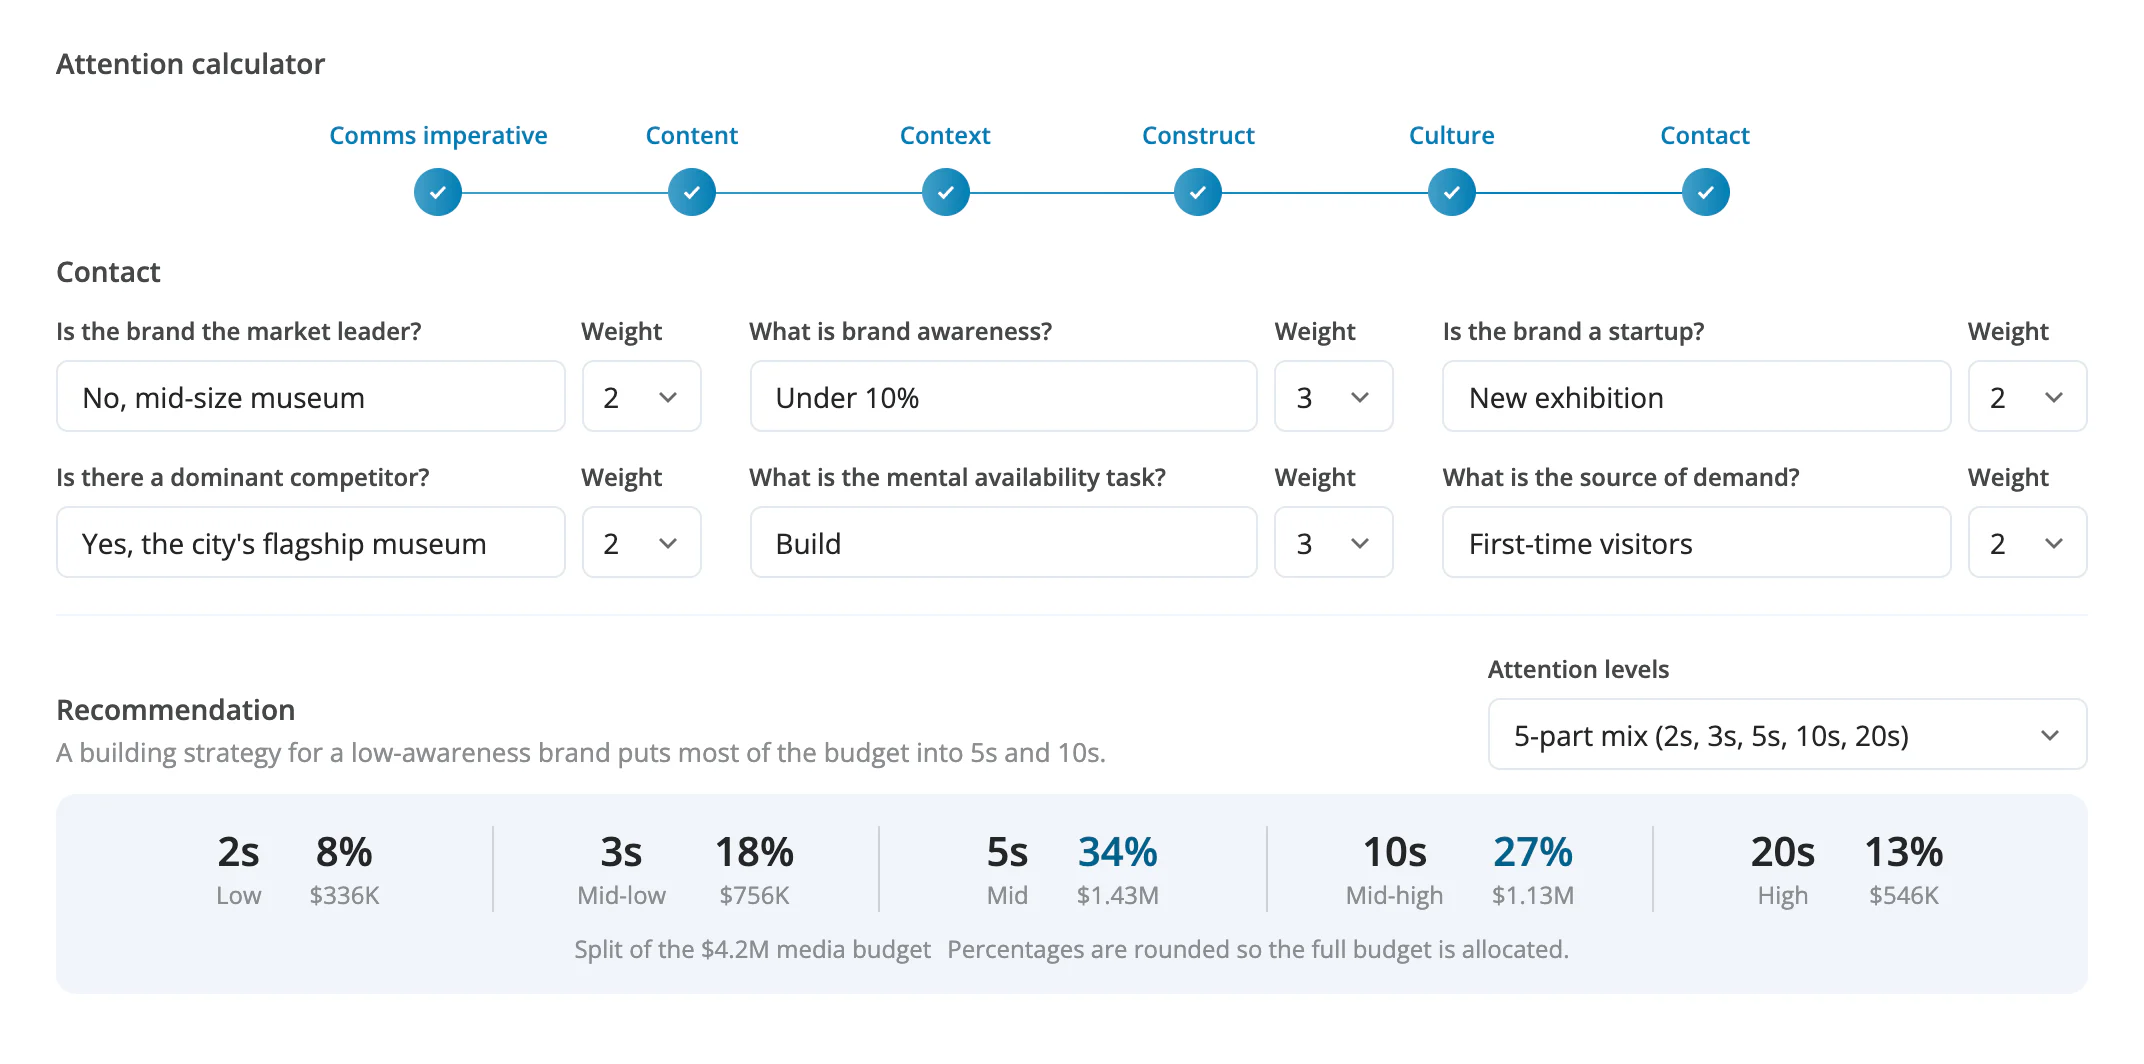
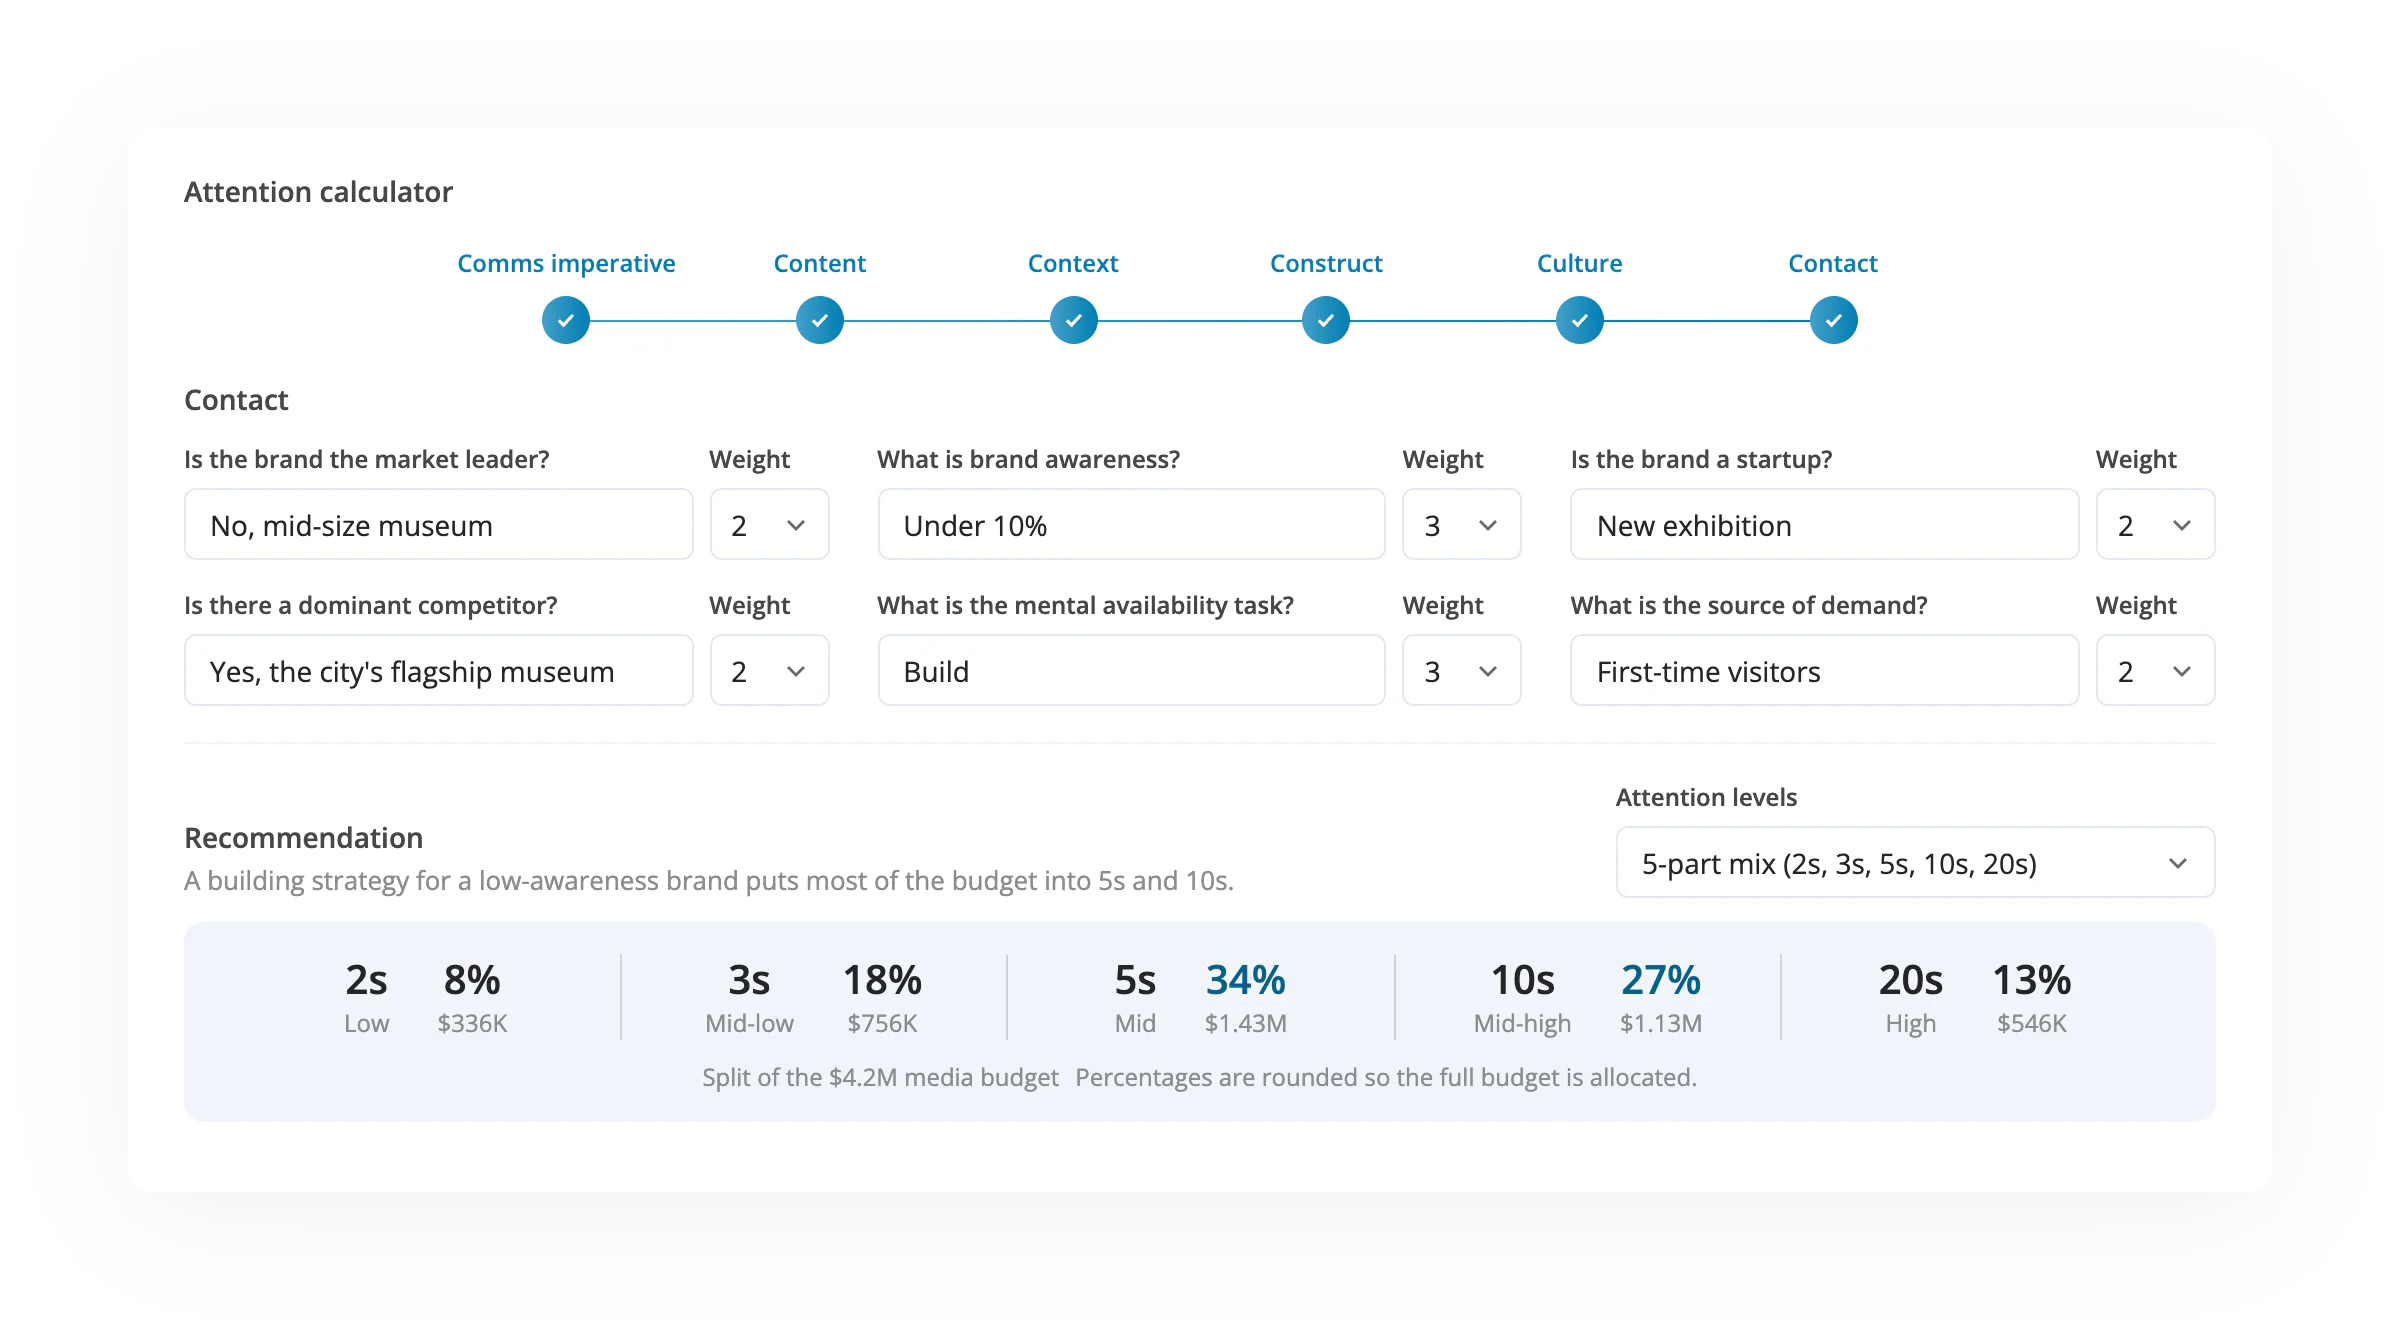
Give the module screens a drop shadow and keep it in the captures
Cards use 0 10px 60px -5px rgba(59,62,63,.08) in place of the old
shadow and outline. capture.mjs now keeps the shadow and adds 64px of
transparent room around the card (2400×1320 at 2×), and the figure and
zoom images overflow by that 64px so the card stays the same size.

diff --git a/design/case2-screens/new-client-opportunity.dc.html b/design/case2-screens/new-client-opportunity.dc.html
@@ -9,7 +9,7 @@
 <x-dc>
 <helmet data-dc-atomics=""><link rel="preconnect" href="https://fonts.googleapis.com"><link href="https://fonts.googleapis.com/css2?family=Open+Sans:wght@400;600;700&amp;display=swap" rel="stylesheet"><style>body{margin:0;background:#f0eee9;font-family:"Open Sans",system-ui,sans-serif;color:#464849}a{color:#00618B}a:hover{color:#004563}*{box-sizing:border-box}</style><script src="./image-slot.js"></script></helmet>
 <div id="shot-6" data-screen-label="06 Opportunity mapping" style="width:1120px;height:580px;padding:24px;background:transparent;font-family:'Open Sans',sans-serif">
-<div style="position:relative;width:100%;height:100%;background:#fff;border-radius:10px;box-shadow:0 10px 60px -5px rgba(36,37,38,.14),0 0 0 1px #F1F5FA;overflow:hidden;padding:22px 28px;display:flex;flex-direction:column;gap:16px">
+<div style="position:relative;width:100%;height:100%;background:#fff;border-radius:10px;box-shadow:0 10px 60px -5px rgba(59,62,63,.08);overflow:hidden;padding:22px 28px;display:flex;flex-direction:column;gap:16px">
 <span style="font-size:14px;font-weight:600;color:#242526">Opportunity mapping</span>
 <div style="flex:1;min-height:0;display:grid;grid-template-columns:repeat(6,minmax(0,1fr));grid-template-rows:repeat(3,minmax(0,1fr));gap:10px">
 <div style="grid-area:1 / 1 / 2 / 3;background:#00618B;color:#fff;border-radius:6px;padding:12px 14px;display:flex;flex-direction:column;gap:4px;overflow:hidden"><span style="font-size:10px;font-weight:700;letter-spacing:.08em;text-transform:uppercase;color:#CAE4EF">Brand</span><span style="font-size:14px;font-weight:600;line-height:19px">Gold frame, face to face</span><div style="font-size:12px;line-height:17px;text-wrap:pretty;display:flex;flex-direction:column;gap:2px"><span>The gold frame mark and "Face to face with Raphael" line are our strongest cues. Awareness is 6% today, so every touchpoint should show both.</span></div></div>

diff --git a/design/case2-screens/new-client-audience.dc.html b/design/case2-screens/new-client-audience.dc.html
@@ -9,7 +9,7 @@
 <x-dc>
 <helmet data-dc-atomics=""><link rel="preconnect" href="https://fonts.googleapis.com"><link href="https://fonts.googleapis.com/css2?family=Open+Sans:wght@400;600;700&amp;display=swap" rel="stylesheet"><style>body{margin:0;background:#f0eee9;font-family:"Open Sans",system-ui,sans-serif;color:#464849}a{color:#00618B}a:hover{color:#004563}*{box-sizing:border-box}</style><script src="./image-slot.js"></script></helmet>
 <div id="shot-2" data-screen-label="02 Audience viz" style="width:1120px;height:580px;padding:24px;background:transparent;font-family:'Open Sans',sans-serif">
-<div style="position:relative;width:100%;height:100%;background:#fff;border-radius:10px;box-shadow:0 10px 60px -5px rgba(36,37,38,.14),0 0 0 1px #F1F5FA;overflow:hidden">
+<div style="position:relative;width:100%;height:100%;background:#fff;border-radius:10px;box-shadow:0 10px 60px -5px rgba(59,62,63,.08);overflow:hidden">
 <div style="position:absolute;top:0;left:0;bottom:0;width:700px;padding:24px 28px">
 <div style="display:flex;justify-content:space-between;align-items:baseline;gap:16px"><span style="font-size:14px;font-weight:600;white-space:nowrap">Core Audience</span><span style="display:flex;align-items:center;gap:8px"><span style="font-size:13px;color:#8B8D90;white-space:nowrap"><br></span></span></div>
 <div style="position:relative;margin-top:22px;height:370px">

diff --git a/design/case2-screens/return-client-channel.dc.html b/design/case2-screens/return-client-channel.dc.html
@@ -9,7 +9,7 @@
 <x-dc>
 <helmet data-dc-atomics=""><link rel="preconnect" href="https://fonts.googleapis.com"><link href="https://fonts.googleapis.com/css2?family=Open+Sans:wght@400;600;700&amp;display=swap" rel="stylesheet"><style>body{margin:0;background:#f0eee9;font-family:"Open Sans",system-ui,sans-serif;color:#464849}a{color:#00618B}a:hover{color:#004563}*{box-sizing:border-box}</style><script src="./image-slot.js"></script></helmet>
 <div id="shot-4" data-screen-label="Revisit 04 Channel plan" style="width:1120px;height:580px;padding:24px;background:transparent;font-family:'Open Sans',sans-serif">
-<div style="position:relative;width:100%;height:100%;background:#fff;border-radius:10px;box-shadow:0 10px 60px -5px rgba(36,37,38,.14),0 0 0 1px #F1F5FA;overflow:hidden">
+<div style="position:relative;width:100%;height:100%;background:#fff;border-radius:10px;box-shadow:0 10px 60px -5px rgba(59,62,63,.08);overflow:hidden">
 <div style="position:absolute;top:0;left:0;bottom:0;width:700px;padding:24px 0 24px 28px;display:flex;gap:4px">
 <div style="width:212px;flex:none;display:flex;flex-direction:column;gap:6px;border-right:1px solid #F1F5FA;padding-right:16px">
 <div style="display:flex;flex-direction:column;align-items:flex-start;gap:6px;padding-bottom:8px"><span style="font-size:14px;font-weight:600">Channel plan</span></div>

diff --git a/design/case2-screens/new-client-channel.dc.html b/design/case2-screens/new-client-channel.dc.html
@@ -9,7 +9,7 @@
 <x-dc>
 <helmet data-dc-atomics=""><link rel="preconnect" href="https://fonts.googleapis.com"><link href="https://fonts.googleapis.com/css2?family=Open+Sans:wght@400;600;700&amp;display=swap" rel="stylesheet"><style>body{margin:0;background:#f0eee9;font-family:"Open Sans",system-ui,sans-serif;color:#464849}a{color:#00618B}a:hover{color:#004563}*{box-sizing:border-box}</style><script src="./image-slot.js"></script></helmet>
 <div id="shot-4" data-screen-label="04 Channel plan" style="width:1120px;height:580px;padding:24px;background:transparent;font-family:'Open Sans',sans-serif">
-<div style="position:relative;width:100%;height:100%;background:#fff;border-radius:10px;box-shadow:0 10px 60px -5px rgba(36,37,38,.14),0 0 0 1px #F1F5FA;overflow:hidden">
+<div style="position:relative;width:100%;height:100%;background:#fff;border-radius:10px;box-shadow:0 10px 60px -5px rgba(59,62,63,.08);overflow:hidden">
 <div style="position:absolute;top:0;left:0;bottom:0;width:700px;padding:24px 0 24px 28px;display:flex;gap:4px">
 <div style="width:212px;flex:none;display:flex;flex-direction:column;gap:6px;border-right:1px solid #F1F5FA;padding-right:16px">
 <div style="display:flex;flex-direction:column;align-items:flex-start;gap:6px;padding-bottom:8px"><span style="font-size:14px;font-weight:600">Channel plan</span></div>

diff --git a/design/case2-screens/return-client-attention.dc.html b/design/case2-screens/return-client-attention.dc.html
@@ -9,7 +9,7 @@
 <x-dc>
 <helmet data-dc-atomics=""><link rel="preconnect" href="https://fonts.googleapis.com"><link href="https://fonts.googleapis.com/css2?family=Open+Sans:wght@400;600;700&amp;display=swap" rel="stylesheet"><style>body{margin:0;background:#f0eee9;font-family:"Open Sans",system-ui,sans-serif;color:#464849}a{color:#00618B}a:hover{color:#004563}*{box-sizing:border-box}</style><script src="./image-slot.js"></script></helmet>
 <div id="shot-3" data-screen-label="Revisit 03 Attention plan" style="width:1120px;height:580px;padding:24px;background:transparent;font-family:'Open Sans',sans-serif">
-<div style="position:relative;width:100%;height:100%;background:#fff;border-radius:10px;box-shadow:0 10px 60px -5px rgba(36,37,38,.14),0 0 0 1px #F1F5FA;overflow:hidden">
+<div style="position:relative;width:100%;height:100%;background:#fff;border-radius:10px;box-shadow:0 10px 60px -5px rgba(59,62,63,.08);overflow:hidden">
 <div style="padding:22px 28px;display:flex;flex-direction:column;gap:18px">
 <span style="font-size:14px;font-weight:600">Attention calculator</span><div style="display:grid;grid-template-columns:repeat(6,1fr);width:760px;align-self:center">
 <sc-for list="{{ steps }}" as="s" hint-placeholder-count="6">

diff --git a/design/case2-screens/new-client-attention.dc.html b/design/case2-screens/new-client-attention.dc.html
@@ -9,7 +9,7 @@
 <x-dc>
 <helmet data-dc-atomics=""><link rel="preconnect" href="https://fonts.googleapis.com"><link href="https://fonts.googleapis.com/css2?family=Open+Sans:wght@400;600;700&amp;display=swap" rel="stylesheet"><style>body{margin:0;background:#f0eee9;font-family:"Open Sans",system-ui,sans-serif;color:#464849}a{color:#00618B}a:hover{color:#004563}*{box-sizing:border-box}</style><script src="./image-slot.js"></script></helmet>
 <div id="shot-3" data-screen-label="03 Attention plan" style="width:1120px;height:580px;padding:24px;background:transparent;font-family:'Open Sans',sans-serif">
-<div style="position:relative;width:100%;height:100%;background:#fff;border-radius:10px;box-shadow:0 10px 60px -5px rgba(36,37,38,.14),0 0 0 1px #F1F5FA;overflow:hidden">
+<div style="position:relative;width:100%;height:100%;background:#fff;border-radius:10px;box-shadow:0 10px 60px -5px rgba(59,62,63,.08);overflow:hidden">
 <div style="padding:22px 28px;display:flex;flex-direction:column;gap:18px">
 <span style="font-size:14px;font-weight:600">Attention calculator</span><div style="display:grid;grid-template-columns:repeat(6,1fr);width:760px;align-self:center">
 <sc-for list="{{ steps }}" as="s" hint-placeholder-count="6">

diff --git a/design/case2-screens/new-client-ideation.dc.html b/design/case2-screens/new-client-ideation.dc.html
@@ -9,7 +9,7 @@
 <x-dc>
 <helmet data-dc-atomics=""><link rel="preconnect" href="https://fonts.googleapis.com"><link href="https://fonts.googleapis.com/css2?family=Open+Sans:wght@400;600;700&amp;display=swap" rel="stylesheet"><style>body{margin:0;background:#f0eee9;font-family:"Open Sans",system-ui,sans-serif;color:#464849}a{color:#00618B}a:hover{color:#004563}*{box-sizing:border-box}</style><script src="./image-slot.js"></script></helmet>
 <div id="shot-1" data-screen-label="01 Ideation" style="width:1120px;height:580px;padding:24px;background:transparent;font-family:'Open Sans',sans-serif">
-<div style="position:relative;width:100%;height:100%;background:#fff;border-radius:10px;box-shadow:0 10px 60px -5px rgba(36,37,38,.14),0 0 0 1px #F1F5FA;overflow:hidden">
+<div style="position:relative;width:100%;height:100%;background:#fff;border-radius:10px;box-shadow:0 10px 60px -5px rgba(59,62,63,.08);overflow:hidden">
 <div style="padding:24px 28px;display:flex;flex-direction:column;gap:18px">
 <span style="font-size:14px;font-weight:600">Campaign Brief</span>
 <div style="display:grid;grid-template-columns:1.25fr 1fr;gap:20px">

diff --git a/components/CaseModules.tsx b/components/CaseModules.tsx
@@ -57,7 +57,7 @@ const CLIENT_VIEW = {
   fg: "var(--green-900)",
 };
 
-/** Module screens: the 1072×532 product card, captured at 2× */
+/** Module screens: the 1072×532 product card with 64px around it for its shadow, captured at 2× */
 function steps(
   prefix: string,
   mods: [ModuleKey, string][],
@@ -67,8 +67,8 @@ function steps(
     ...mods.map(([key, desc]) => ({
       ...MODULE[key],
       img: `/case2/${prefix}-${key}.webp`,
-      w: 2144,
-      h: 1064,
+      w: 2400,
+      h: 1320,
       desc,
     })),
   ];
@@ -364,7 +364,7 @@ export default function CaseModules() {
               alt={`${zoomed.name} module, full size`}
               width={zoomed.w}
               height={zoomed.h}
-              sizes="1072px"
+              sizes="1200px"
             />
           </div>
         )}

diff --git a/app/cases.css b/app/cases.css
@@ -294,8 +294,10 @@
 }
 .mod-figure img {
   display: block;
-  width: 100%;
+  /* the image has 64px of shadow around the 1072px card; overflow it so the card fills the figure */
+  width: calc(100% * 1200 / 1072);
   height: auto;
+  margin: calc(-100% * 64 / 1072);
 }
 .mod-desc {
   max-width: 760px;
@@ -577,9 +579,11 @@ html:has(.mod-zoom[open]) {
 .mod-zoom-scroll img {
   flex: none;
   display: block;
-  width: 1072px;
+  /* the 1072px card plus its 64px of shadow, like .mod-figure img */
+  width: 1200px;
   max-width: none;
   height: auto;
+  margin: -64px;
 }
 .mod-zoom-desc {
   flex: none;

diff --git a/design/case2-screens/README.md b/design/case2-screens/README.md
@@ -23,9 +23,11 @@ Each `<name>.dc.html` here makes `public/case2/<name>.webp`:
    node design/case2-screens/capture.mjs new-client-channel  # one
    ```
 
-   This saves the white card alone at 2× (2144×1064), with no outline
-   or shadow, as WebP in `public/case2/`. Keep that size, because
-   `CaseModules.tsx` sets the images' dimensions.
+   This saves the white card and its drop shadow at 2× (2400×1320: the
+   1072×532 card plus 64px of transparent room on each side) as WebP in
+   `public/case2/`. Keep that size, because `CaseModules.tsx` sets the
+   images' dimensions and `.mod-figure img` in `app/cases.css` overflows
+   the figure by the 64px so the card itself fills it.
 
 The Opportunity screen hotlinks two Raphael paintings (public domain,
 Wikimedia Commons), so capturing it needs a connection. The captured
